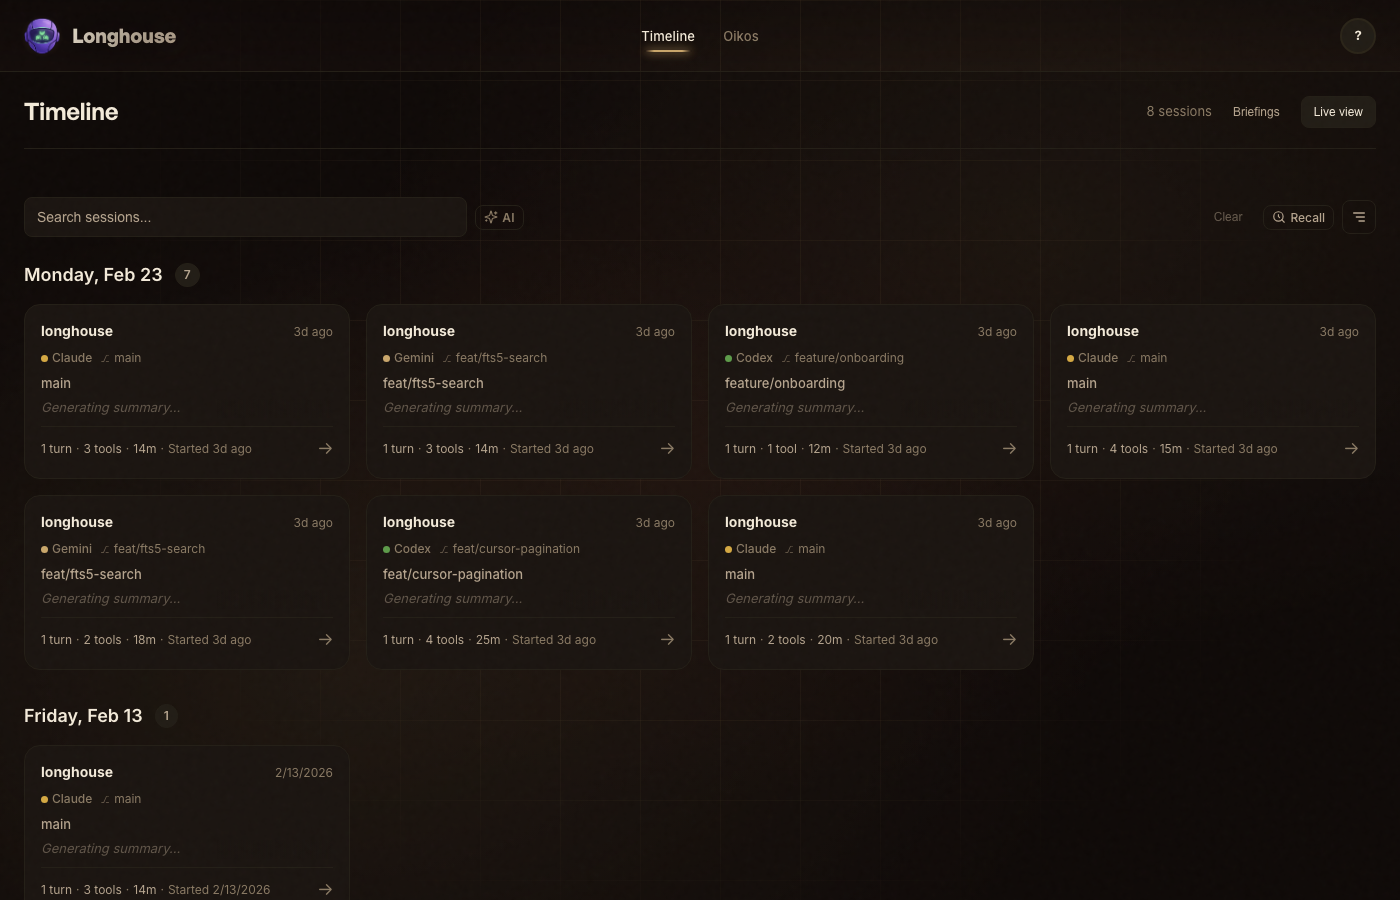
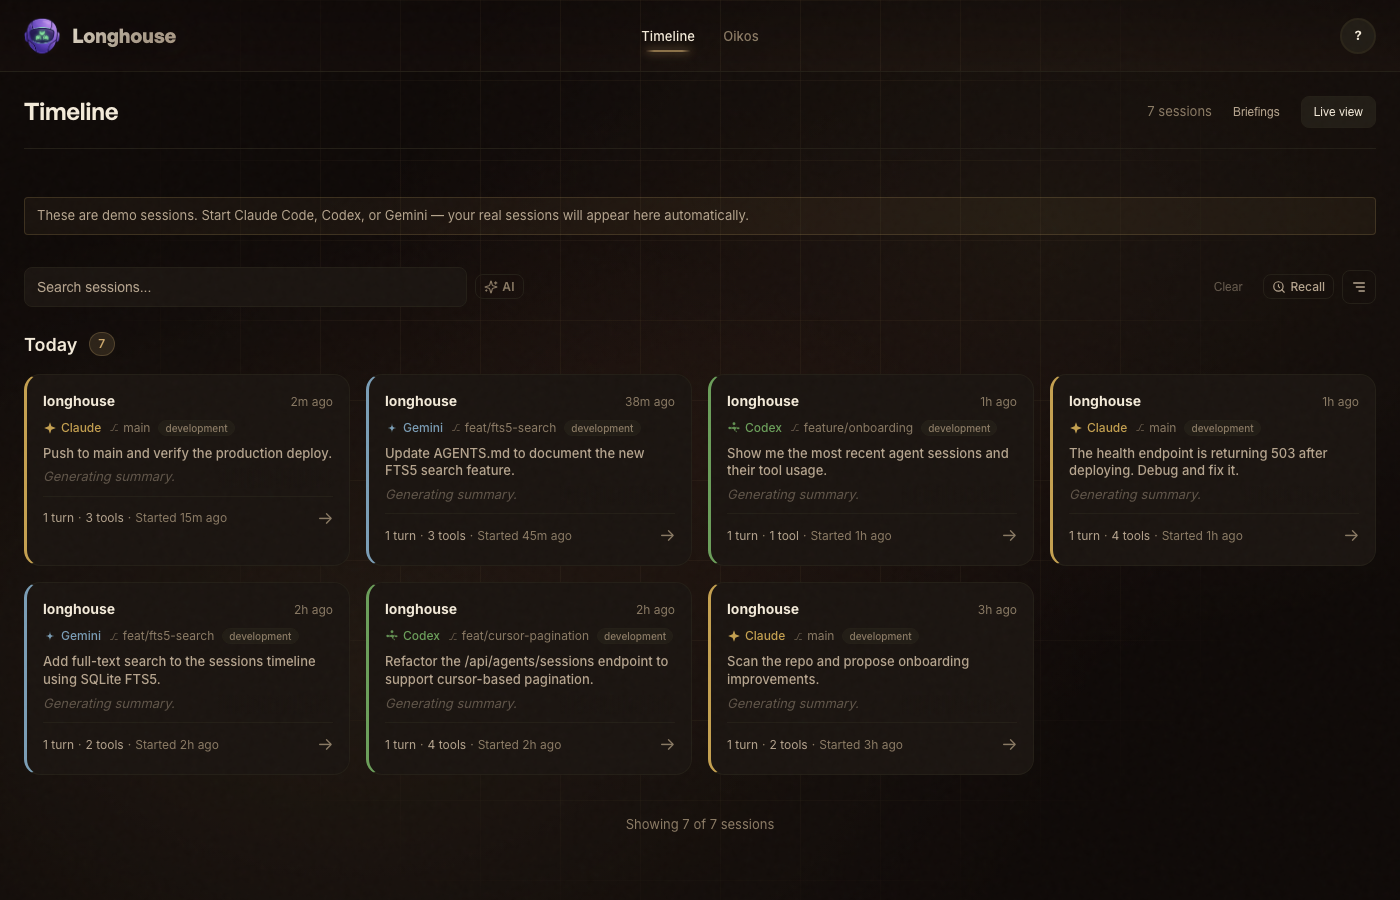
Add self-contained marketing screenshot workflow
- New `make marketing-screenshots` target: starts demo stack, captures
  all screenshots, stops cleanly — no pre-running stack required
- `scripts/marketing-screenshots.sh`: wraps backend + Vite dev startup
  with health-check polling and EXIT trap for cleanup
- `capture_marketing.py`: add `--base-url` flag to override manifest
  base URL (used by the new script to point at :47200 instead of :30080)
- Update screenshots with current UI

diff --git a/scripts/capture_marketing.py b/scripts/capture_marketing.py
@@ -147,9 +147,12 @@ def main():
     parser.add_argument("--name", "-n", action="append", help="Capture specific screenshot(s)")
     parser.add_argument("--list", "-l", action="store_true", help="List available screenshots")
     parser.add_argument("--validate", "-v", action="store_true", help="Validate existing screenshots")
+    parser.add_argument("--base-url", help="Override base URL from manifest (e.g. http://localhost:47200)")
     args = parser.parse_args()
 
     manifest = load_manifest()
+    if args.base_url:
+        manifest["base_url"] = args.base_url
 
     if args.list:
         list_screenshots(manifest)
